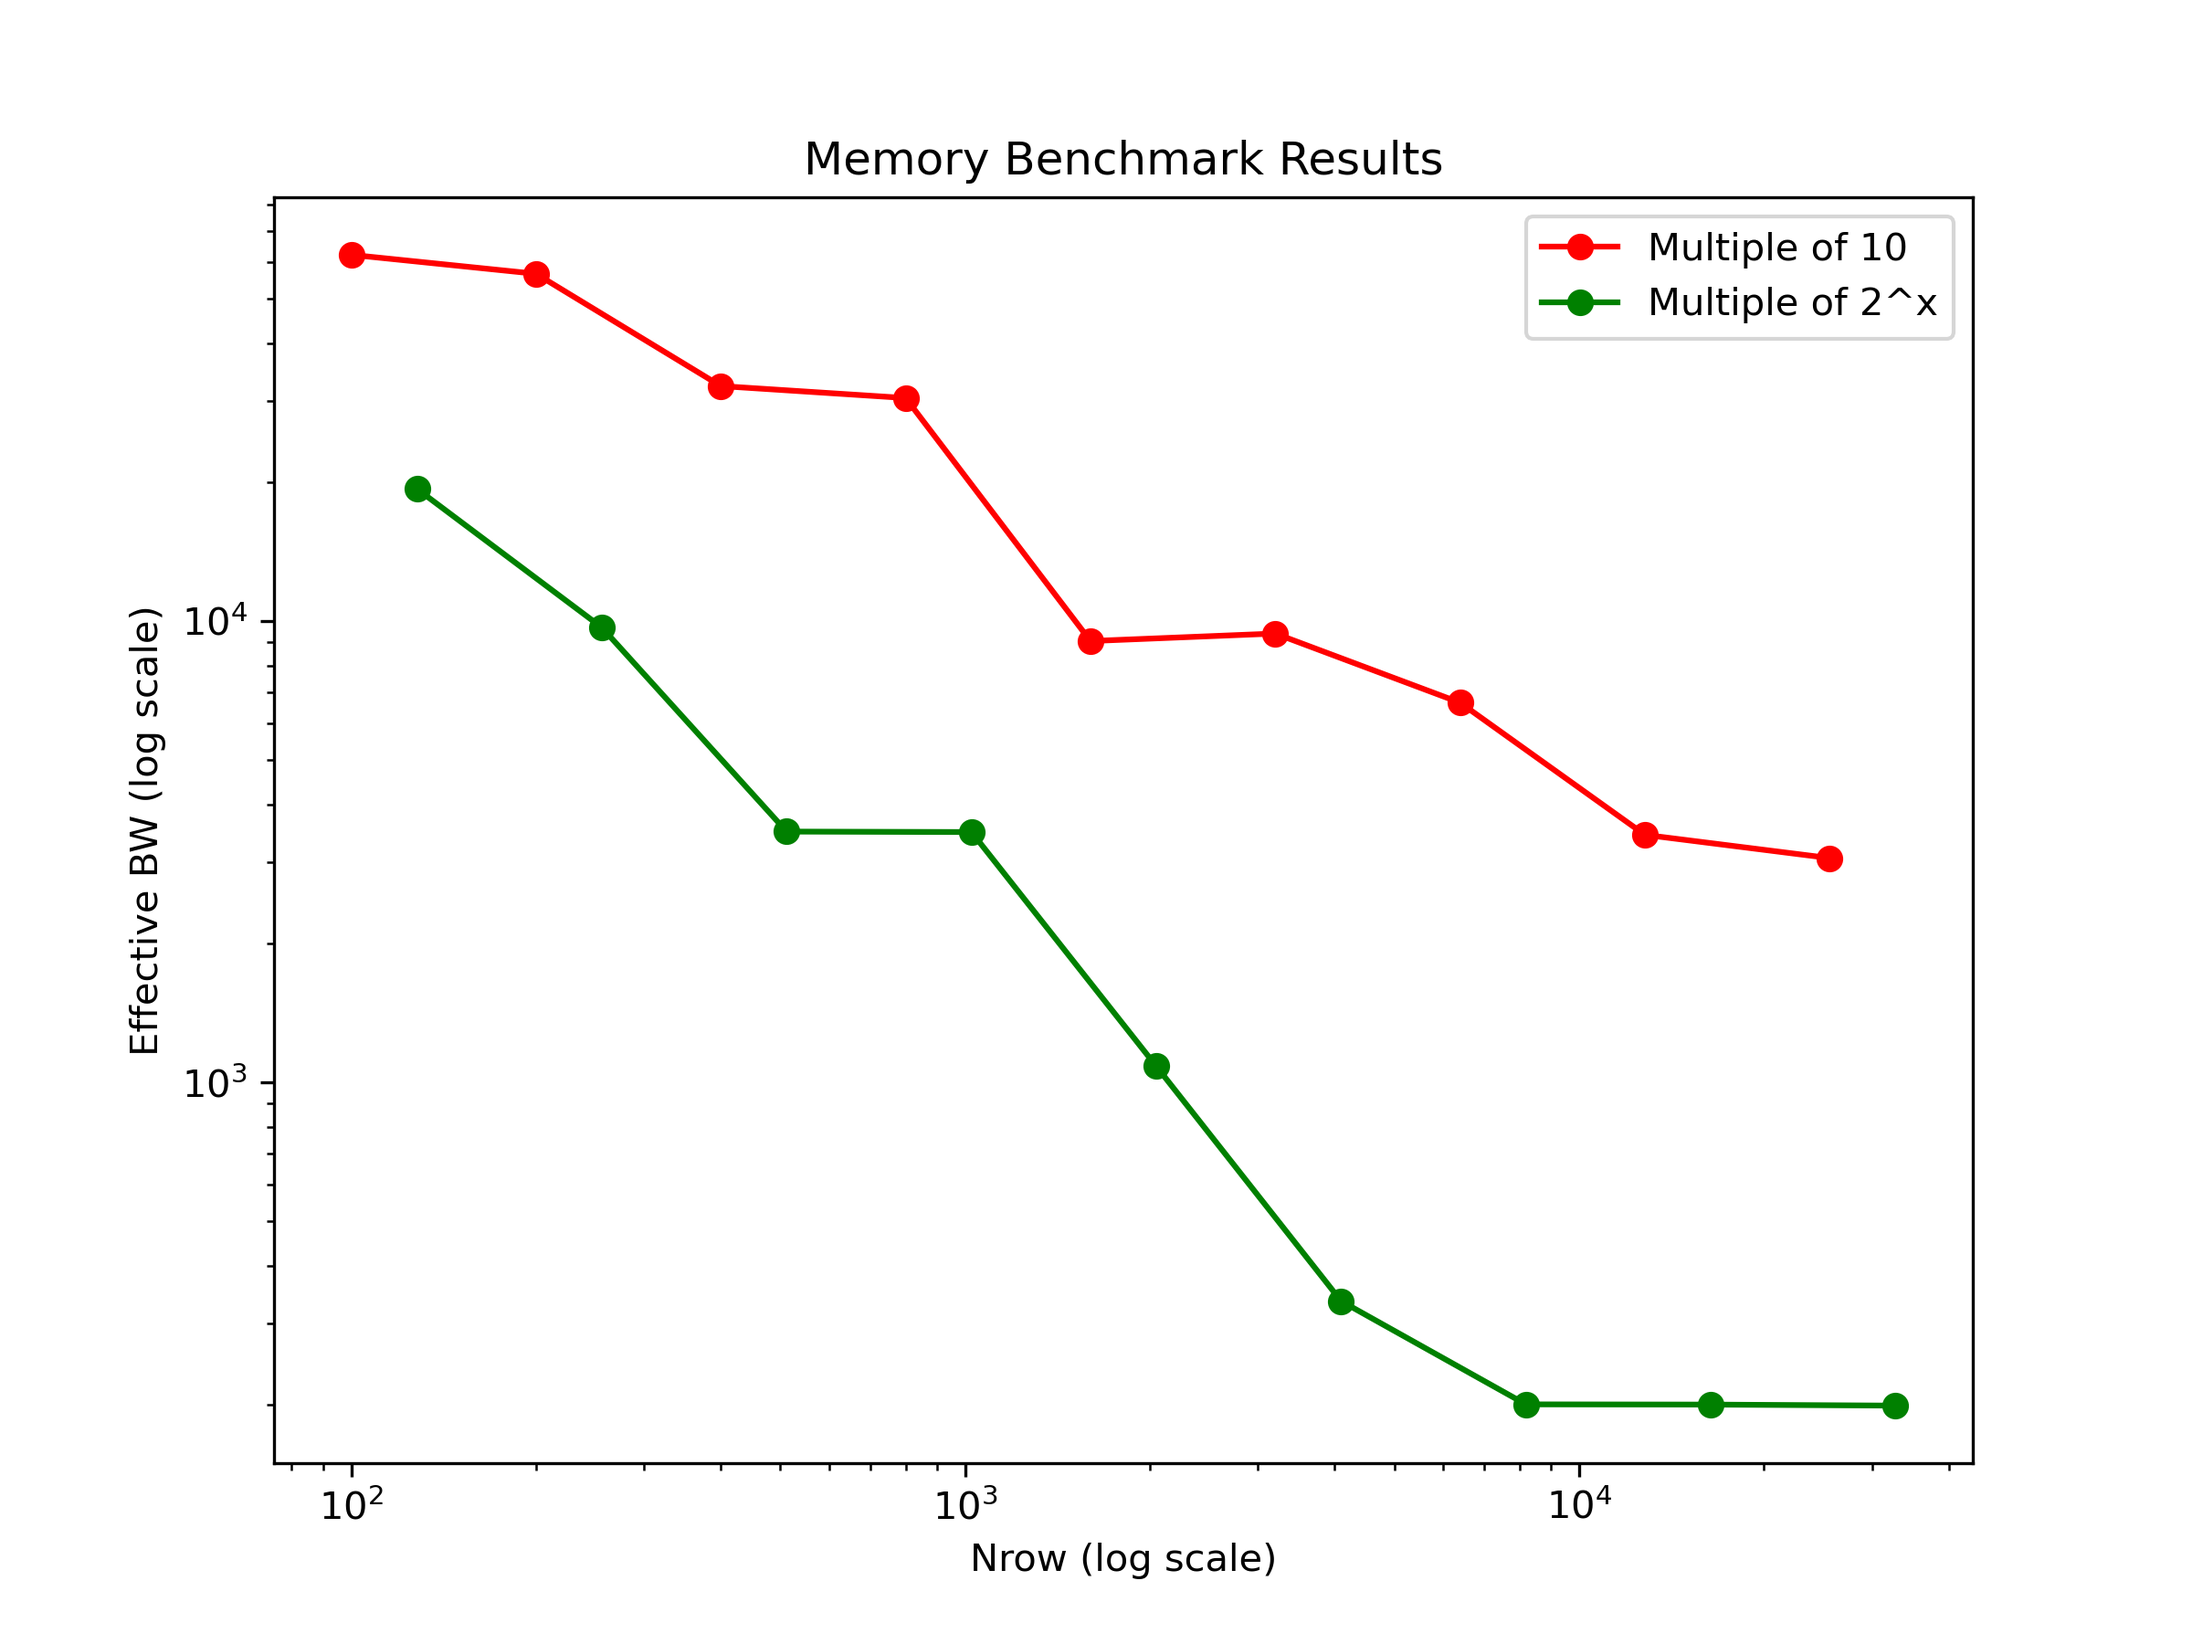
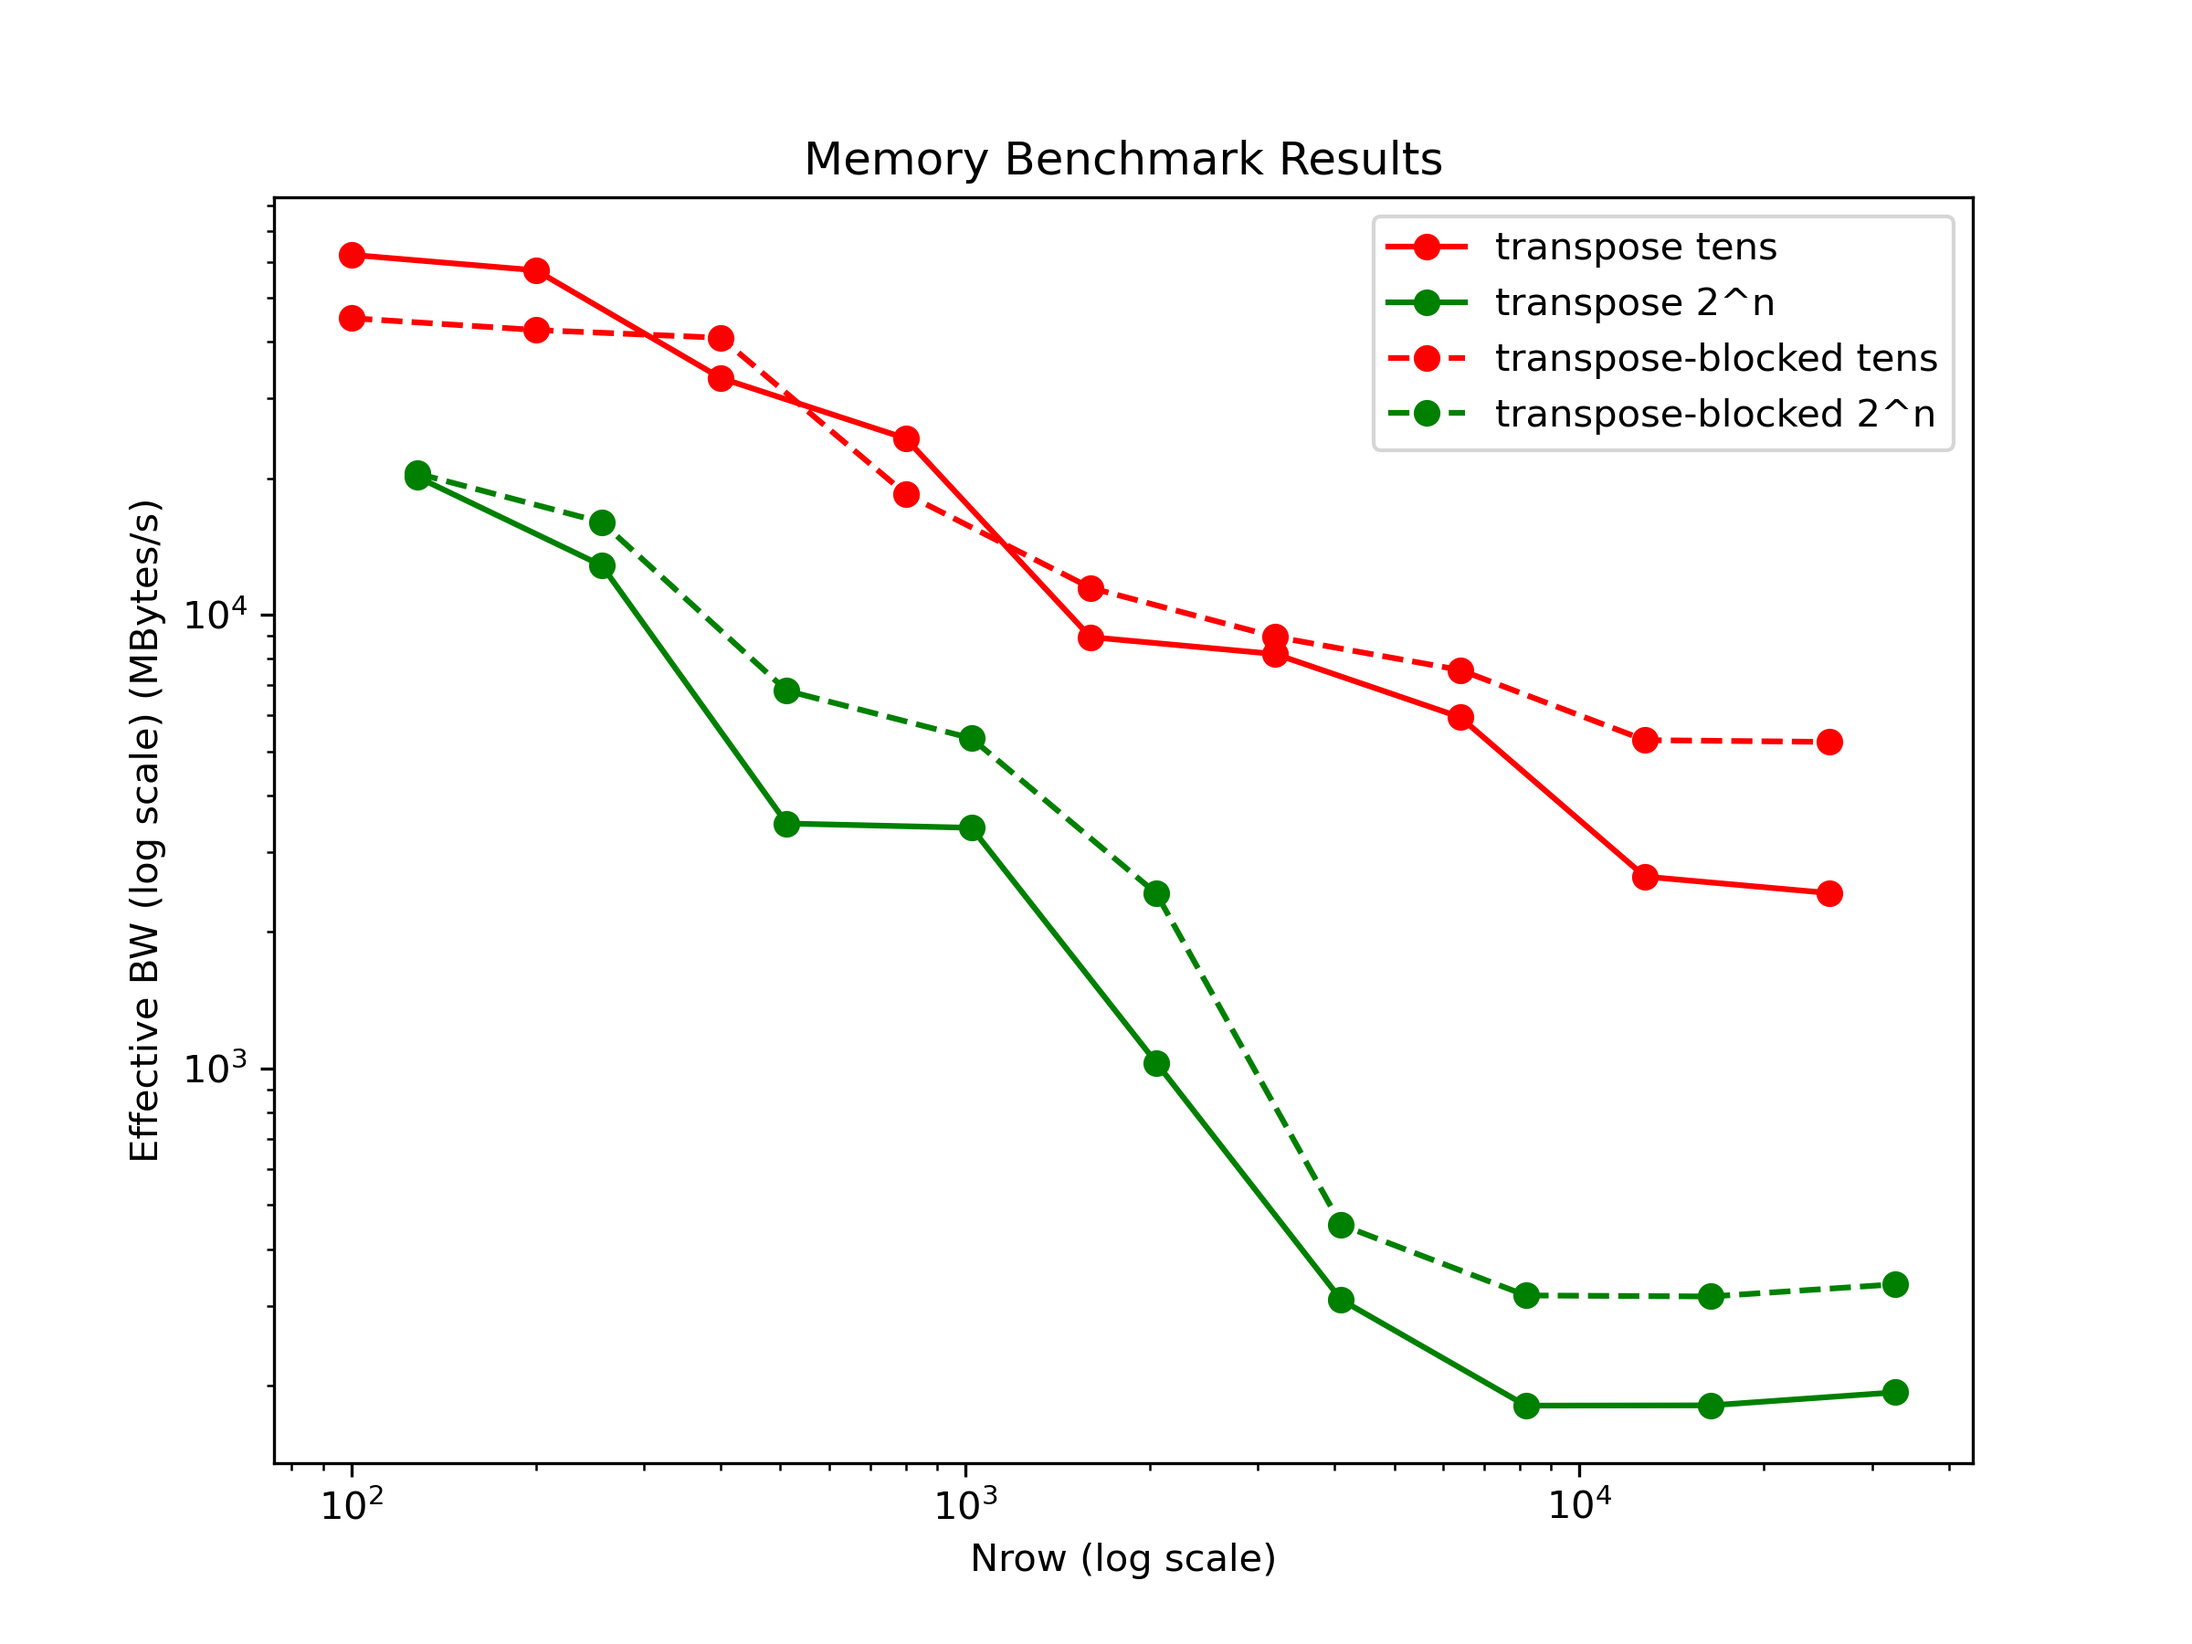
added test for 32 stride length

diff --git a/exercise_7/plot.py b/exercise_7/plot.py
@@ -2,20 +2,22 @@ import pandas as pd
 import numpy as np
 import matplotlib.pyplot as plt
 
-data = pd.read_csv("mem-bench.out", delim_whitespace=True)
-data_tens = data[data["Nrow"] % 10 == 0]
-data_non_tens = data[data["Nrow"] % 10 != 0]
-
 fig, ax = plt.subplots(1,1,figsize=(8,6))
 ax.set_xscale('log')
 ax.set_yscale('log')
 ax.set_xlabel('Nrow (log scale)')
-ax.set_ylabel('Effective BW (log scale)')
+ax.set_ylabel('Effective BW (log scale) (MBytes/s)')
 ax.set_title('Memory Benchmark Results')
 colors = ['r', 'g']
-for i, data in enumerate([data_tens, data_non_tens]):
-    ax.plot(data["Nrow"], data["EffectiveBW"], marker='o', linestyle='-', color=colors[i], label='Multiple of 10' if i == 0 else 'Multiple of 2^x')
+linestyles = "-","--"
+for j, source in enumerate(["transpose","transpose-blocked"]):
+    
+    data = pd.read_csv(source+"_mem.dat", delim_whitespace=True)
+    data_tens = data[data["Nrow"] % 10 == 0]
+    data_non_tens = data[data["Nrow"] % 10 != 0]
 
+    for i, data in enumerate([data_tens, data_non_tens]):
+        ax.plot(data["Nrow"], data["EffectiveBW"], marker='o', linestyle=linestyles[j], color=colors[i], label=f"{source} {'tens' if i==0 else '2^n'}")
 ax.legend()
 plt.show()
 fig.savefig("mem-bench-plot.png", dpi=300)
